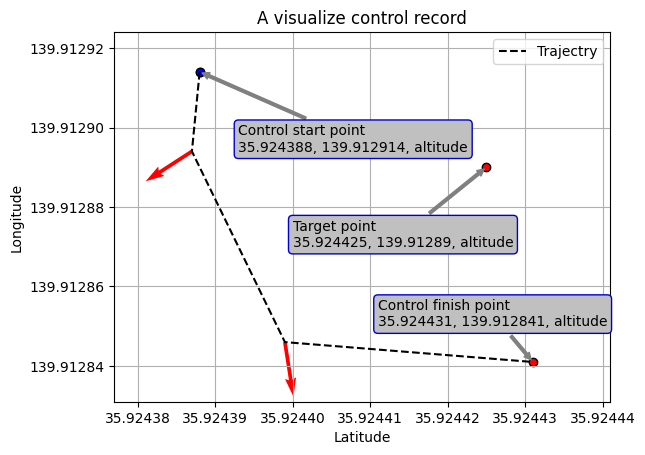
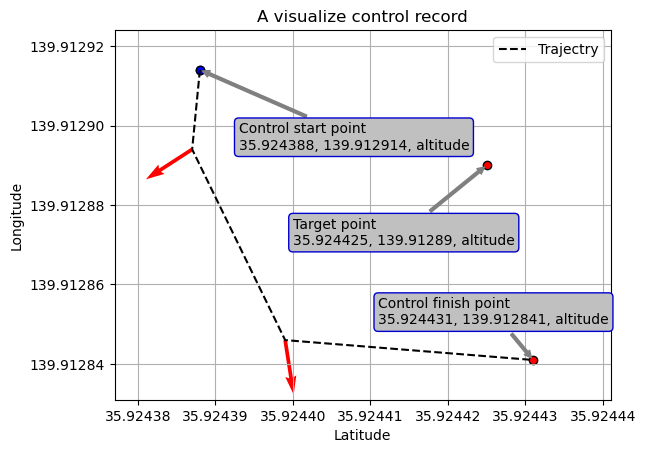
a

Changed region(s): [[0.0, 0.0309, 0.9612, 0.5872], [0.031, 0.5563, 0.9922, 0.989], [0.4031, 0.6799, 0.4341, 0.7108]]

diff --git a/beta_get_map.py b/beta_get_map.py
@@ -47,7 +47,7 @@ def get_map(file_path, lat_goal, lon_goal):
 
         plt.scatter(data_2_lat[0], data_2_lon[0], color="blue")
         plt.quiver(data_2_lat, data_2_lon, cos_azimuth_array, sin_azimuth_array, color="red")
-        plt.plot(data_2_lat, data_2_lon, label="Trajectry", linestyle="dashed", color="black")
+        plt.plot(data_2_lat, data_2_lon, label="Trajectory", linestyle="dashed", color="black")
         
         #スタート地点、ゴール地点、制御終了地点の座標の表示
         plt.scatter(data_2_lat[0], data_2_lon[0], color="blue", edgecolors="black")
